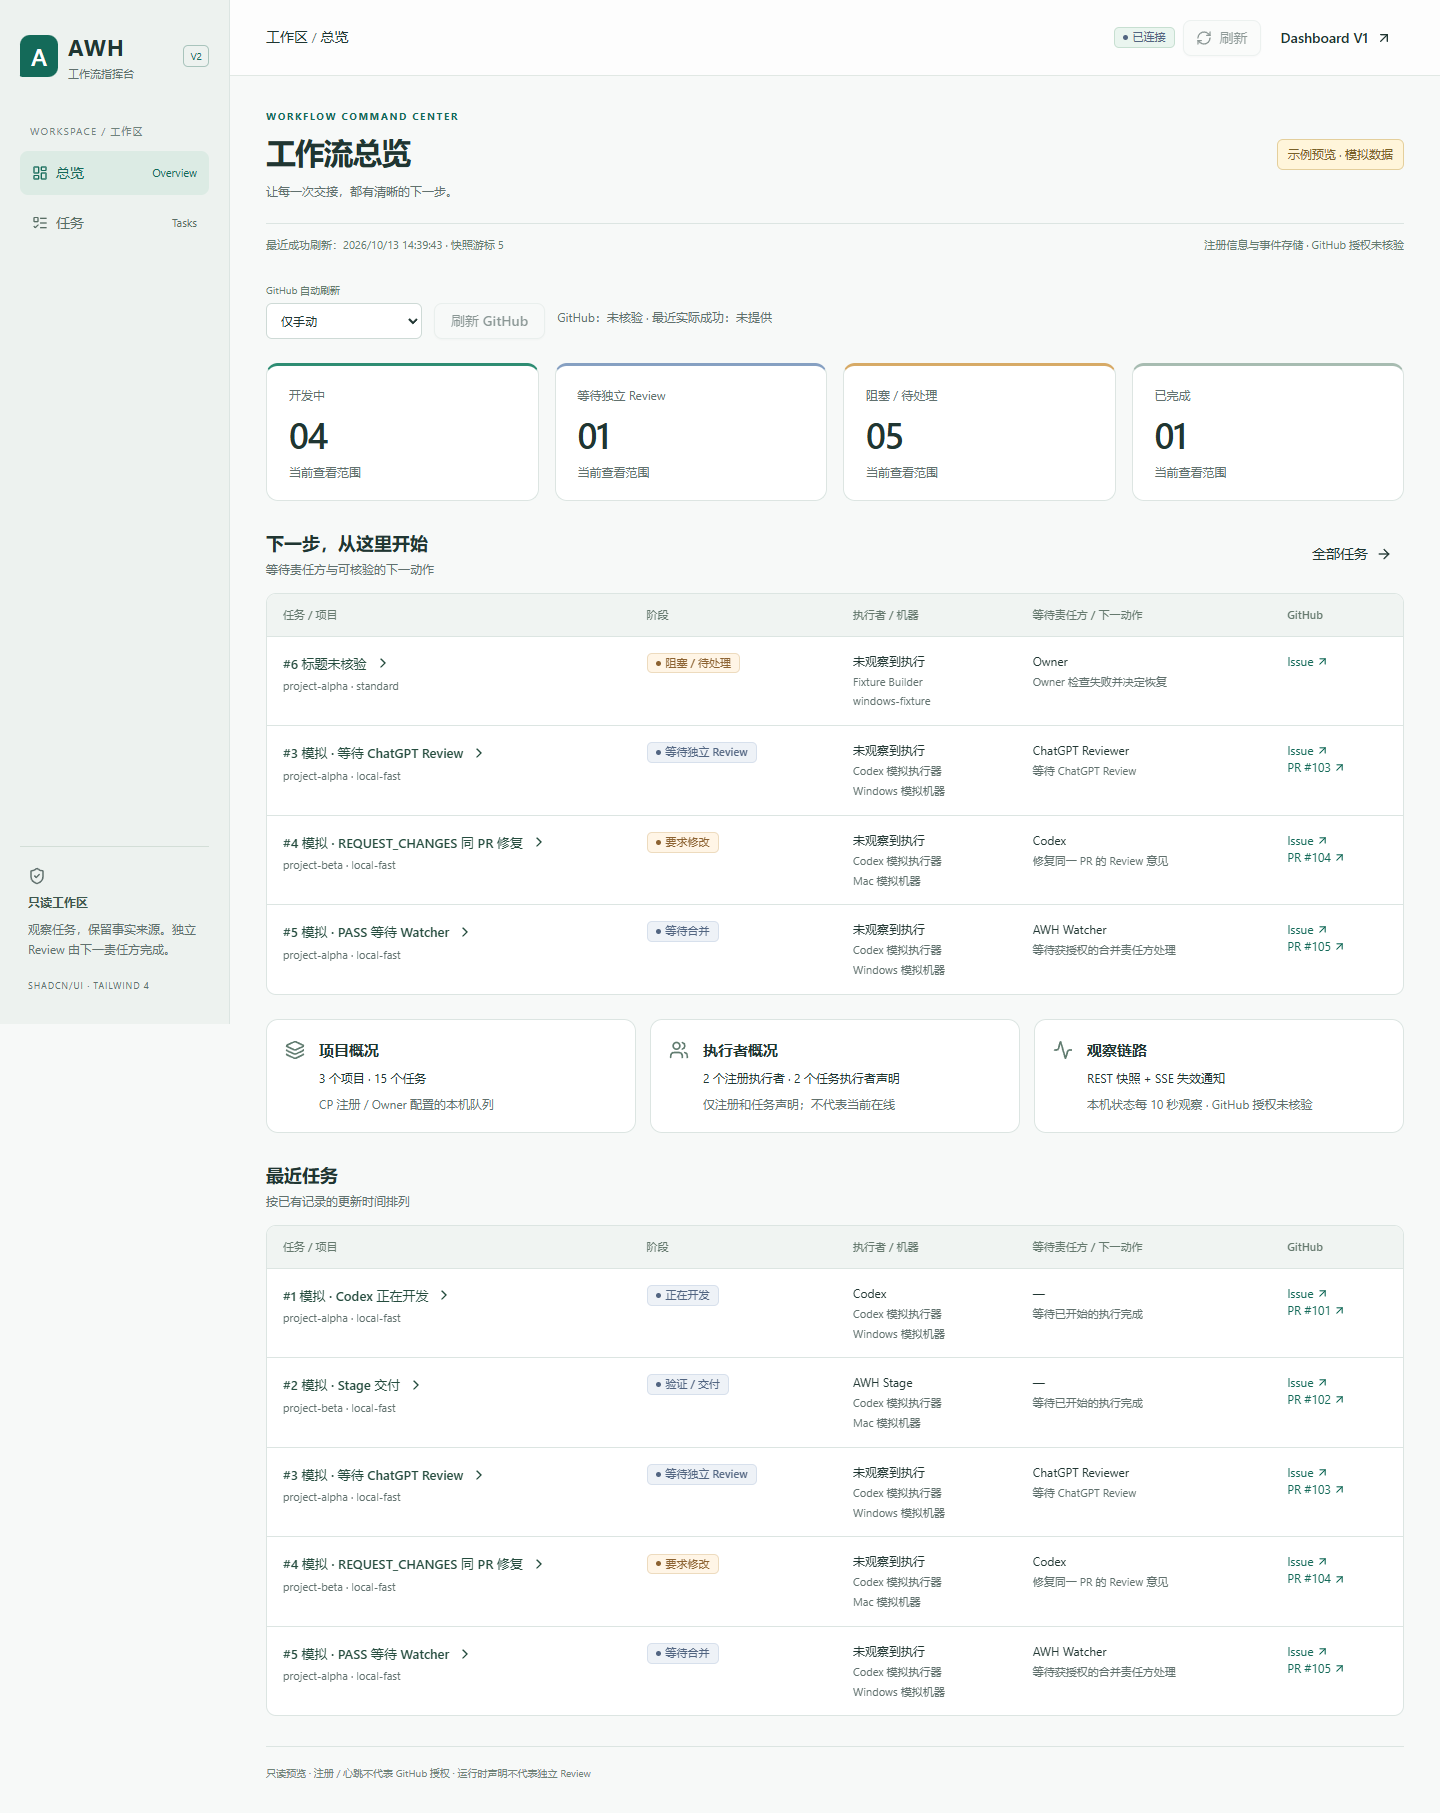
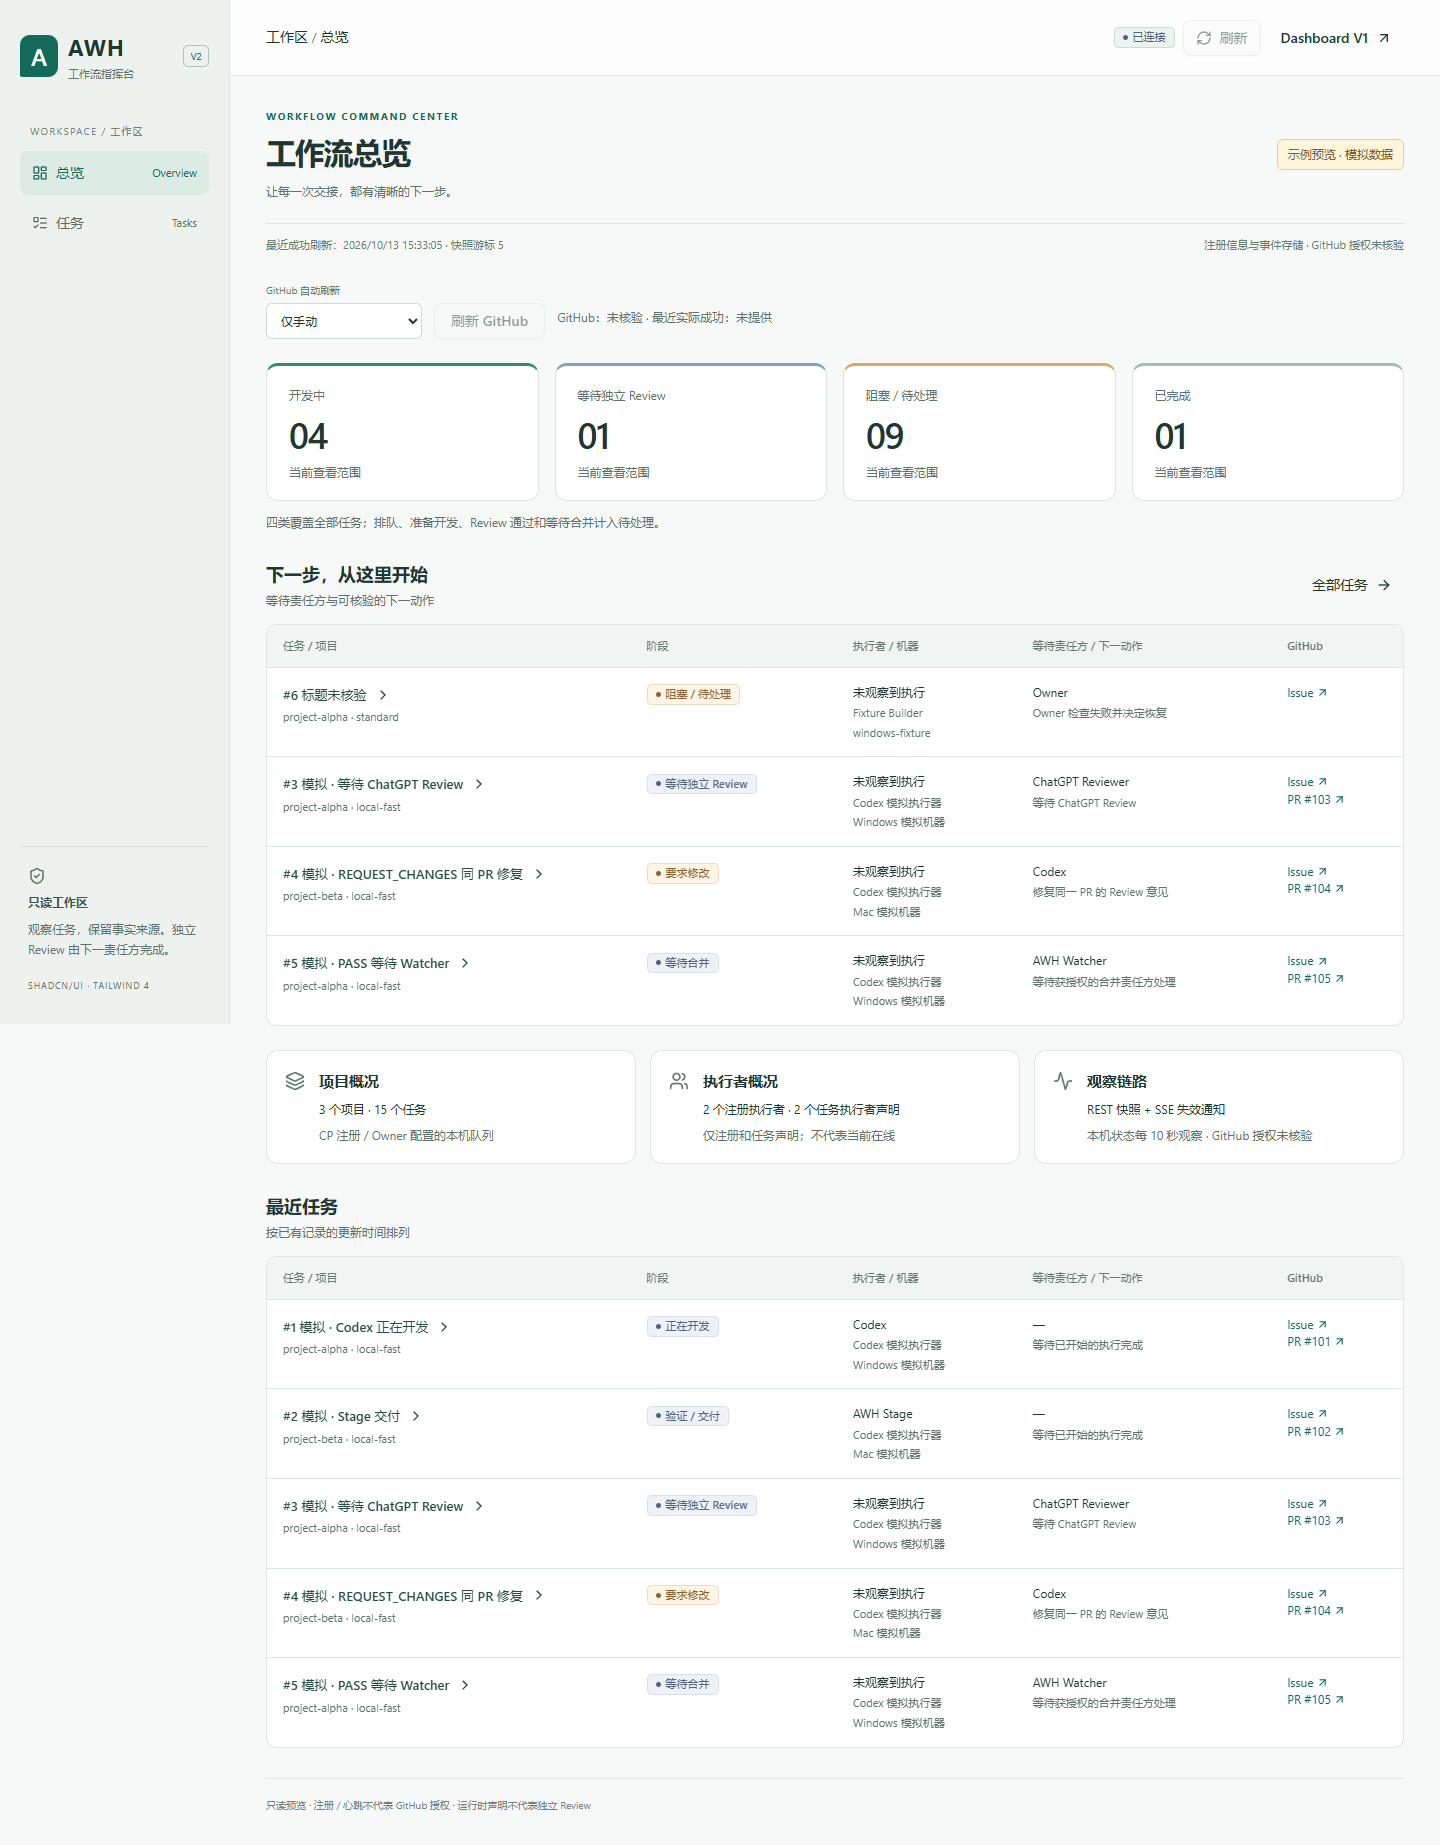
Fix V2 Overview coverage and stale facts during SSE catch-up

diff --git a/dashboard-v2/pages/overview.tsx b/dashboard-v2/pages/overview.tsx
@@ -2,7 +2,7 @@ import { ArrowRight, Layers, Users, Activity } from "lucide-react";
 import { Card } from "../components/ui/card";
 import { Button } from "../components/ui/button";
 import { TaskList, type TaskListProps } from "../components/task-list";
-import { taskFacts } from "../lib/task-model.mjs";
+import { overviewCounts, taskFacts } from "../lib/task-model.mjs";
 import type { Snapshot } from "../hooks/use-dashboard";
 export function Overview({
   tasks,
@@ -12,34 +12,12 @@ export function Overview({
   snapshot,
   showTasks,
 }: TaskListProps & { snapshot: Snapshot; showTasks: () => void }) {
+  const summary = overviewCounts(tasks, disconnected, now);
   const counts = [
-    [
-      "开发中",
-      tasks.filter((t) =>
-        ["developing", "verifying", "merging"].includes(
-          taskFacts(t, disconnected, now).state,
-        ),
-      ).length,
-    ],
-    [
-      "等待独立 Review",
-      tasks.filter(
-        (t) => taskFacts(t, disconnected, now).state === "awaiting_review",
-      ).length,
-    ],
-    [
-      "阻塞 / 待处理",
-      tasks.filter((t) =>
-        ["blocked", "unknown", "changes_requested"].includes(
-          taskFacts(t, disconnected, now).state,
-        ),
-      ).length,
-    ],
-    [
-      "已完成",
-      tasks.filter((t) => taskFacts(t, disconnected, now).state === "completed")
-        .length,
-    ],
+    ["开发中", summary.developing],
+    ["等待独立 Review", summary.awaiting_review],
+    ["阻塞 / 待处理", summary.pending],
+    ["已完成", summary.completed],
   ] as const;
   const pending = tasks.filter(
     (t) =>
@@ -61,6 +39,9 @@ export function Overview({
           </Card>
         ))}
       </div>
+      <p className="muted mt-3">
+        四类覆盖全部任务；排队、准备开发、Review 通过和等待合并计入待处理。
+      </p>
       <div className="section-title">
         <div>
           <h2>下一步，从这里开始</h2>

diff --git a/dashboard-v2/components/app-shell.tsx b/dashboard-v2/components/app-shell.tsx
@@ -8,7 +8,7 @@ import {
 import type { ReactNode } from "react";
 import { Button } from "./ui/button";
 import { Status } from "./status";
-import { stamp } from "../lib/task-model.mjs";
+import { stamp, taskSnapshotPending } from "../lib/task-model.mjs";
 import type { DashboardState } from "../hooks/use-dashboard";
 export type View = "Overview" | "Tasks";
 export function AppShell({
@@ -113,6 +113,16 @@ export function AppShell({
             </span>
             <span>注册信息与事件存储 · GitHub 授权未核验</span>
           </div>
+          {state.snapshot &&
+            taskSnapshotPending(
+              state.phase,
+              state.snapshot.cursor,
+              state.events,
+            ) && (
+              <div className="notice" role="status">
+                有新事件待同步；当前显示历史快照。任务阶段、执行者、责任方和下一动作已降级，等待快照同步完成。
+              </div>
+            )}
           {state.error && (
             <div className="notice" role="alert">
               读取或实时连接暂不可用。

diff --git a/dashboard-v2/app.tsx b/dashboard-v2/app.tsx
@@ -7,13 +7,18 @@ import { Overview } from "./pages/overview";
 import { Tasks } from "./pages/tasks";
 import { useDashboard, useTaskDetail } from "./hooks/use-dashboard";
 import { GitHubObservation } from "./components/github-observation";
+import { taskSnapshotUnreliable } from "./lib/task-model.mjs";
 function App() {
   const [view, setView] = useState<View>("Overview"),
     [taskId, setTaskId] = useState<string | null>(null);
   const opener = useRef<HTMLElement | null>(null);
   const { state, now, reader, refresh } = useDashboard();
   const tasks = state.snapshot?.tasks ?? [],
-    disconnected = ["offline", "outdated", "error"].includes(state.phase);
+    disconnected = taskSnapshotUnreliable(
+      state.phase,
+      state.snapshot?.cursor,
+      state.events,
+    );
   const detail = useTaskDetail(
     taskId,
     tasks.find((t) => t.id === taskId) ?? null,

diff --git a/dashboard-v2/hooks/use-dashboard.ts b/dashboard-v2/hooks/use-dashboard.ts
@@ -14,6 +14,7 @@ export type Snapshot = {
 };
 export type DashboardState = {
   snapshot: Snapshot | null;
+  events: { cursor: number }[];
   phase: string;
   lastRefresh: number | null;
   error: string | null;
@@ -21,6 +22,7 @@ export type DashboardState = {
 export function useDashboard() {
   const [state, setState] = useState<DashboardState>({
     snapshot: null,
+    events: [],
     phase: "loading",
     lastRefresh: null,
     error: null,
